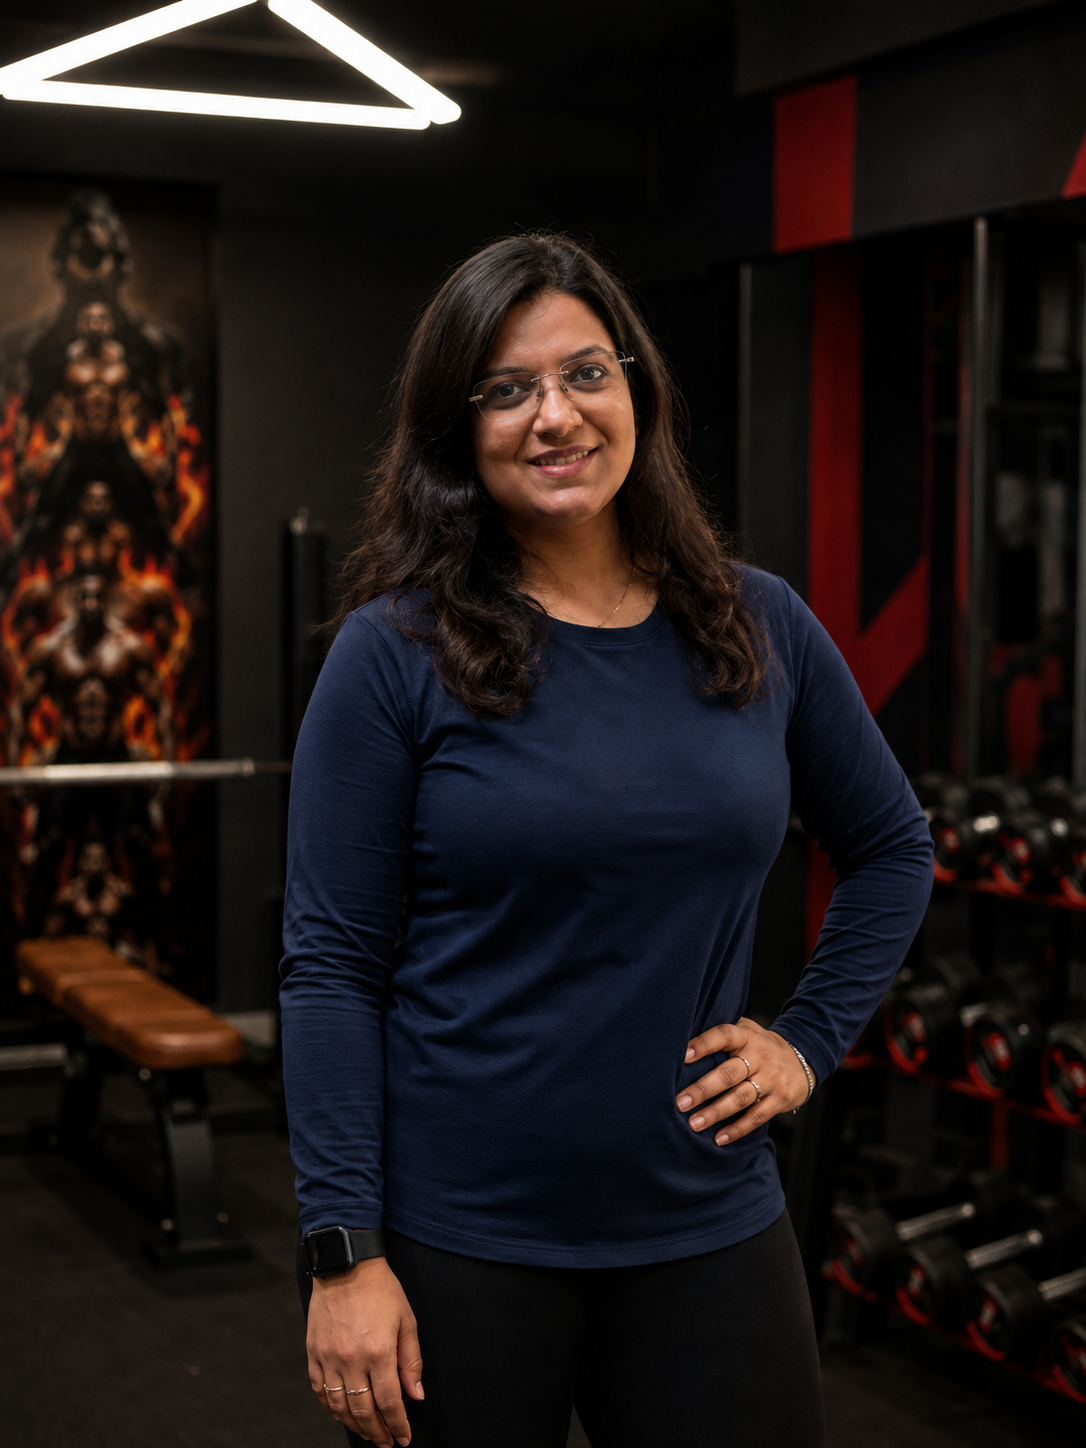
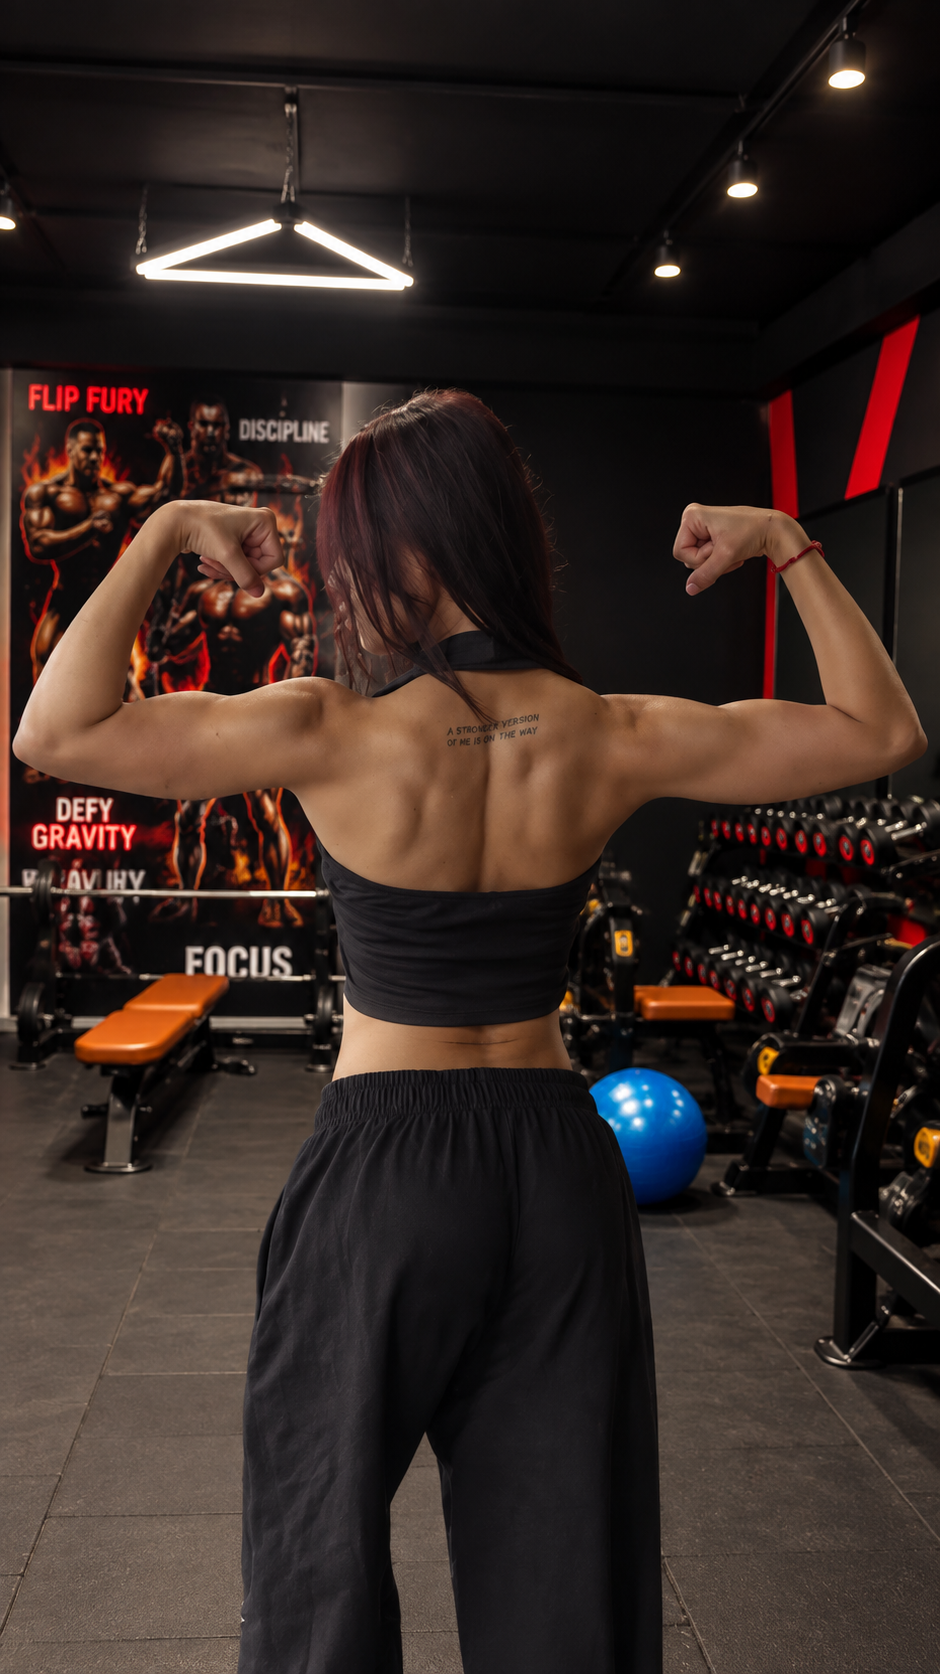
img update

diff --git a/index.html b/index.html
@@ -155,7 +155,7 @@
         <img src="assets/anjusha.png" alt="Transformation 2" loading="lazy" />
         <div class="transform-overlay">
           <div class="transform-info">
-            <h4>Dr. Anjusha</h4>
+            <h4>Ziya</h4>
             <div class="result">Consistency is the key to transformation!</div>
           </div>
         </div>
@@ -295,7 +295,7 @@
             <div class="info-icon"><i data-lucide="phone"></i></div>
             <div class="info-text">
               <strong>Phone</strong>
-              <span><a href="tel:+919595605530" style="color:var(--text);text-decoration:none;">+919595605530</a></span>
+              <span><a href="tel:+918668893291" style="color:var(--text);text-decoration:none;">+918668893291</a></span>
             </div>
           </div>
           <div class="info-item">
@@ -398,8 +398,8 @@
         target="_blank" class="btn-primary reveal reveal-delay-2">
         <i data-lucide="message-circle"></i> Message Us on WhatsApp
       </a>
-      <a href="tel:+919595605530" class="btn-ghost reveal reveal-delay-3">
-        📞 +919595605530
+      <a href="tel:+918668893291" class="btn-ghost reveal reveal-delay-3">
+        📞 +918668893291
       </a>
     </div>
   </section>
